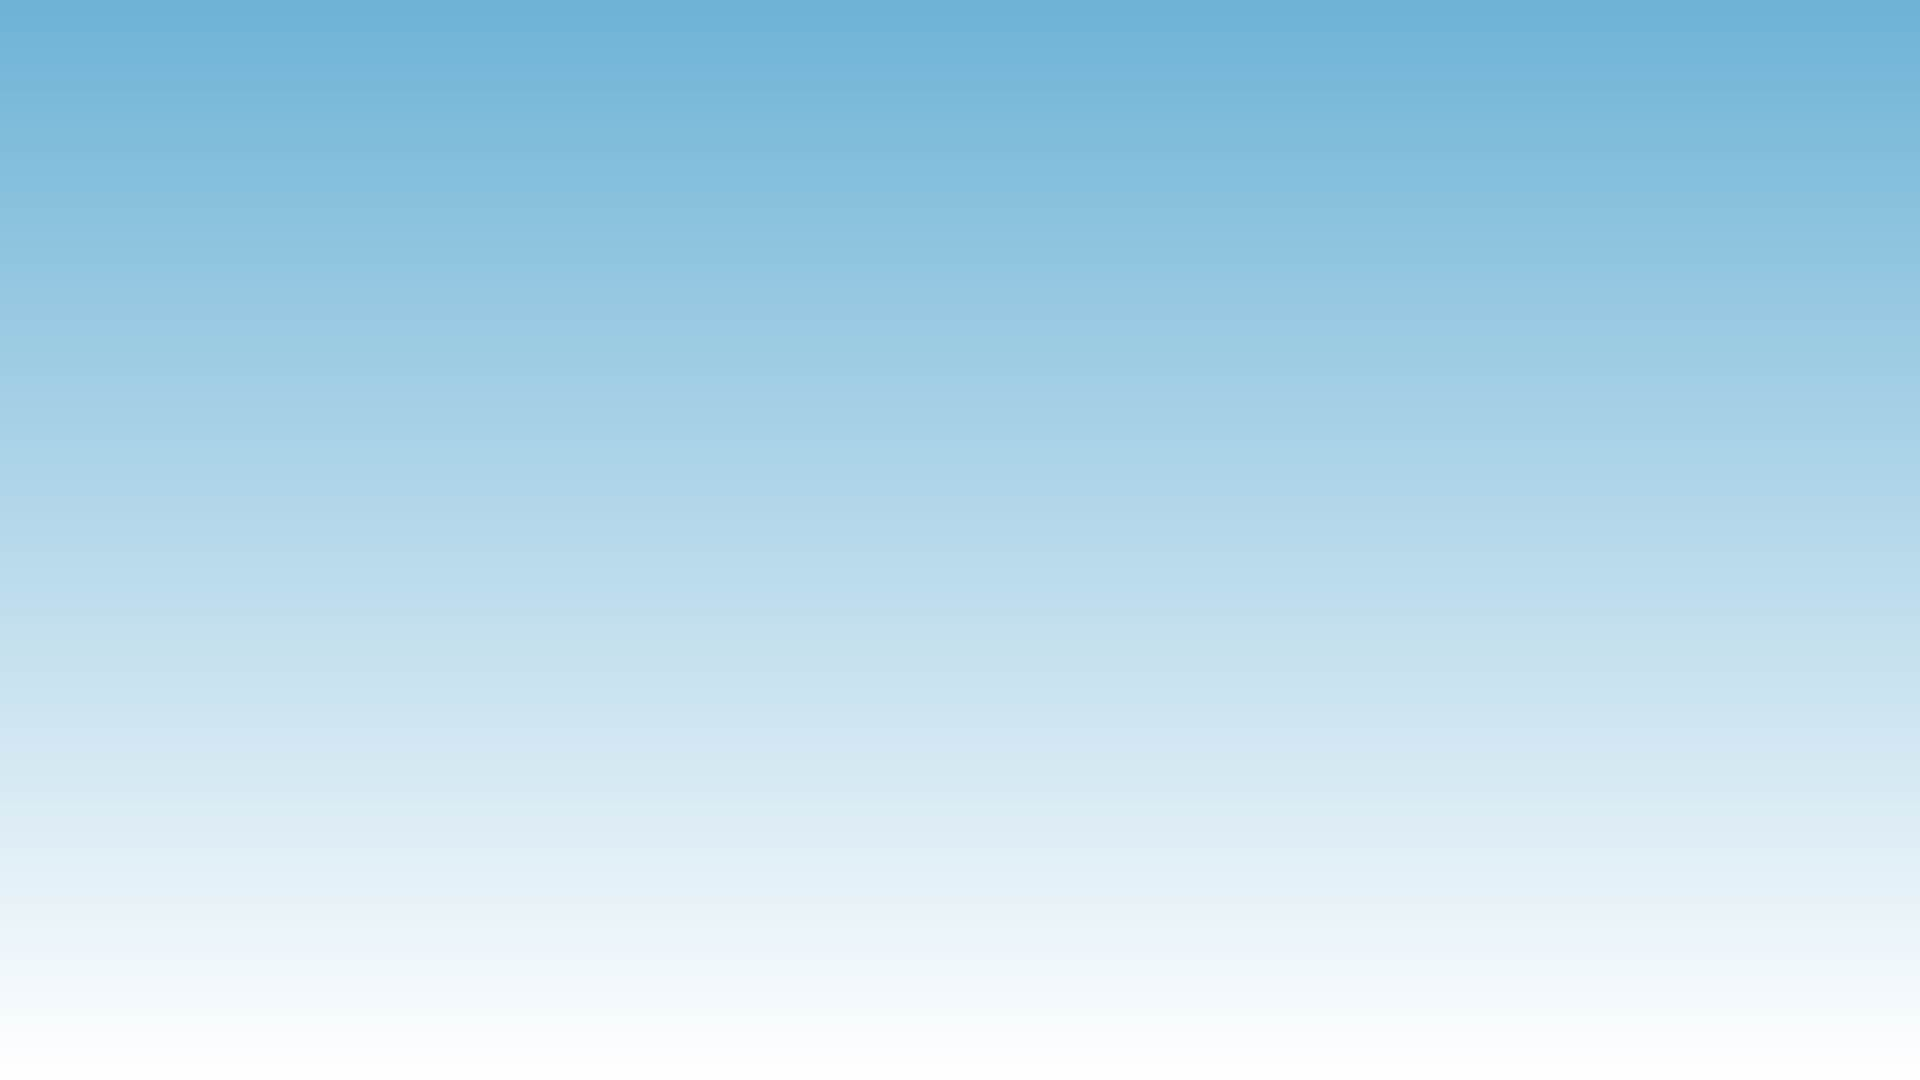
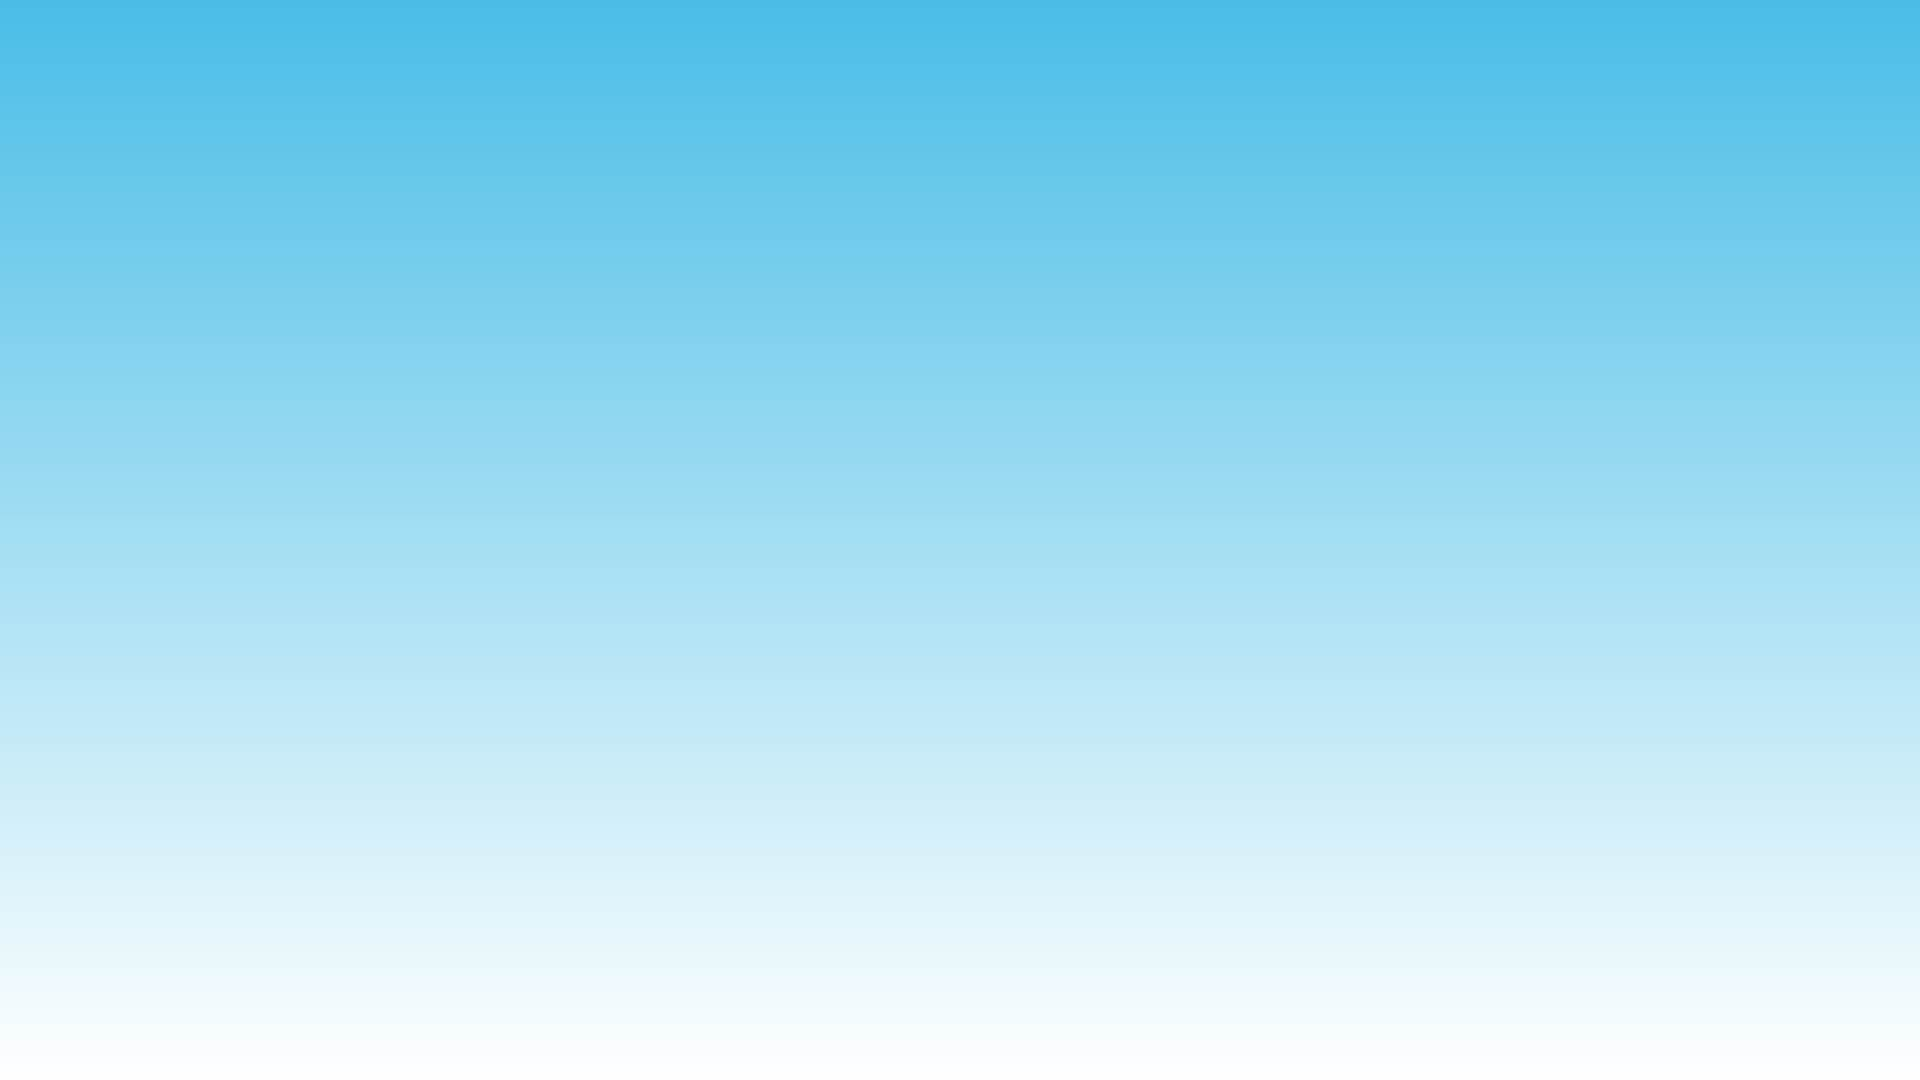
general fix

diff --git a/index.html b/index.html
@@ -4,7 +4,7 @@
     <!-- <meta name="viewport" content="width=device-width, initial-scale=1.0"> -->
     <meta name="viewport" content="width=device-width, initial-scale=1" />
     <title>Document</title>
-    <link href="https://fonts.googleapis.com/css2?family=Comfortaa:wght@300;400;500;600&family=Roboto+Slab:wght@400;500;600;700&display=swap" rel="stylesheet">
+    <link href="https://fonts.googleapis.com/css2?family=Cormorant+Garamond:wght@500&family=Cardo&family=Cinzel&family=Lato:wght@400;900&family=Comfortaa:wght@300;400;500;600&family=Chelsea+Market&family=Cormorant+Garamond:wght@500&family=Montserrat:wght@500;600&family=Roboto+Mono:wght@300;400;500&family=Roboto+Slab&family=Taviraj:wght@400;500&display=swap" rel="stylesheet">
     <script src = "js/p5.min.js"></script>
     <script src="js/p5.dom.min.js"></script>
     <script src = "js/introSketch.js"></script>
@@ -15,11 +15,14 @@
 </head>
 <body>
 <div id="title">
+    <!-- <div>
+        Snow Crystals
+    </div> -->
     <h1>
         Snow Crystals
     </h1>
     <span id="subtitle">
-        Draw a snow crystal 
+        Click and drag to draw a snow crystal 
         
     </span>
 </div>
@@ -27,12 +30,13 @@
 
 <div id="intro">
     <span>
-        Ever wondered how each grains of snowflakes are made? <br><br>
-        Project Snow Crystals is an infographics project on the natural system behind the formation of snow crystals. 
-        <br>Based on the temperature and humidity of the environment, largely 9 type of snow crystals are formed.
-        <br><br>Go to the next page to see how each types of snow crystals are formed in nature.
+        <span id ="q">Ever wondered how each grain of snow crystals are made?</span> <br><br>
+        <span id="i">Project Snow Crystals is an infographics project on the natural system behind the formation of snow crystals. 
+            <br>Based on the temperature and humidity of the environment, 9 type of snow crystals are formed.</span>
         <br><br>
-        <input type="button" class="button" value="Next Page" onclick="location.href='main.html'">
+        <span id="n">Go to the next page to see how each types of snow crystals are formed in nature.</span>
+        <br><br>
+        <input type="button" class="button" id="button" value="Next Page" onclick="location.href='main.html'">
 
     </span>
 </div>    

diff --git a/css/intro.css b/css/intro.css
@@ -1,10 +1,16 @@
 body{
-    /* align-content: center; */
-    font-family: 'Comfortaa', cursive;  
-    /* font-family: 'Roboto Slab', serif; */
-    /* font-weight:500; */
+      /* font-family: 'Roboto Mono', monospace; */
+  /* font-family: 'Montserrat', sans-serif; */
+  /* font-family: 'Cormorant Garamond', serif; */
+  /* font-family: 'Chelsea Market', cursive; */
+  /* font-family: 'Taviraj', serif; */
+  /* font-family: 'Cardo', serif; */
+  /* font-family: 'Cormorant Garamond', serif; */
+  font-family: 'Cinzel', serif;
+  /* font-family: 'Roboto Slab', serif; */
+  /* font-family: 'Comfortaa', cursive;   */
     color: white;
-    background-color: rgb(59, 126, 172);
+    background-color:rgb(63, 179, 221);
     width:95vw;
     height:95vh;
     margin:0px;
@@ -15,7 +21,7 @@ body{
     position: absolute;
     text-align: center;
     top:40vh;
-    left:38vw;
+    left:34vw;
     font-size: 1.5vw ;
 }
 
@@ -47,38 +53,20 @@ body{
       opacity:1;
   }
  @media only screen and (max-width: 800px){
-    html, body {
-        margin: 0;
-        padding: 25px 2px;
+    #title{
+    display: block;
+    border:1px;
+    position: absolute;
+    text-align: center;
+    top:40vh;
+    left:17.5vw;
+    font-size: 4vw ;
+    width:65vw;
     }
-    .header {
-        padding: 0px 30px;
-    }
-    .header h1{
-        font-size:40px;
-    }
-    .header h2 {
-        font-size: 18;
-    }
-    #number {
-        font-size: 40px;
-    }
-    .container{
-        margin-top: 80px;
-    }
-    .button{
-        font-size: 15px;
-        border-radius: 5px;
-        }
-    .column.center{
-        margin-top: 10px;
-    }
-    .footer h2{
-        font-size: 14px;
-        padding: 50px 10px 0px 0px;
-    }
-    #myVideo {
-        width: 95%;
-        border-radius: 10px;
+    #intro{
+        width:30vw;
+        right:30vw;
+        font-size: 1.5vw;
+        line-height: 2vw;
     }
 }

diff --git a/css/styles.css b/css/styles.css
@@ -1,13 +1,23 @@
 body {
-  /* font-family: 'Lato', sans-serif; */
-  font-family: 'Comfortaa', cursive;  
+  /* font-family: 'Roboto Mono', monospace; */
+  /* font-family: 'Montserrat', sans-serif; */
+  /* font-family: 'Cormorant Garamond', serif; */
+  /* font-family: 'Chelsea Market', cursive; */
+  /* font-family: 'Taviraj', serif; */
+  /* font-family: 'Cardo', serif; */
+  /* font-family: 'Cormorant Garamond', serif; */
+  font-family: 'Cinzel', serif;
+  /* font-family: 'Roboto Slab', serif; */
+  /* font-family: 'Comfortaa', cursive;   */
   color: white;
   /* width: 60vw;
   height: 60vh; */
   margin-top: 17vh;
   margin-left: 28vw; 
   /* background-color:rgb(58, 112, 148); */
-  background-color:rgb(59, 126, 172);
+  /* background-color:rgb(59, 126, 172); */
+  background-color:rgb(63, 179, 221);
+
 }
 #main{
   position: absolute;
@@ -96,11 +106,14 @@ body {
     height: 1vh; 
     margin-top:0.781vh;
     margin-bottom:1vh;
-    background: #d3d3d3;
+    /* background: #d3d3d3; */
+    background: #ffffff;
+    border-radius: 1vw;
     outline: none; 
-    opacity: 0.7; 
+    opacity: 0.8; 
     -webkit-transition: .2s; /* 0.2 seconds transition on hover */
     transition: opacity .2s;
+
   }
   
   /* Mouse-over effects */
@@ -111,9 +124,13 @@ body {
 .slider::-webkit-slider-thumb {
     -webkit-appearance: none; 
     appearance: none;
-    width: 20px; 
-    height: 20px; 
-    background:#a0e0ff;
+    width: 22px; 
+    height: 22px; 
+    /* background:#9bdeff; */
+    background:rgb(103, 229, 255);
+    border-radius: 1vw;
+    /* background:#a0e0ff; */
+
     /* background: rgb(18, 146, 163);  */
     cursor: pointer; 
   }
@@ -174,9 +191,13 @@ a{
   #main{
     width:62vw;
     left:1.5vw;
+    margin-left: auto;
+    margin-right: auto;
   }
   #pageTitle {
+    
     position: absolute;
+    
     top:5vh;
     left:2vw;
     font-size:7vw;

diff --git a/main.html b/main.html
@@ -4,7 +4,7 @@
     <meta name="viewport" content="width=device-width, initial-scale=1.0">
     <title>Snow Crystals</title>
     <!-- font import -->
-    <link href="https://fonts.googleapis.com/css2?family=Lato:wght@400;900&family=Comfortaa:wght@300;400;500;600&display=swap" rel="stylesheet">
+    <link href="https://fonts.googleapis.com/css2?family=Cormorant+Garamond:wght@500&family=Cardo&family=Cinzel&family=Lato:wght@400;900&family=Comfortaa:wght@300;400;500;600&family=Chelsea+Market&family=Cormorant+Garamond:wght@500&family=Montserrat:wght@500;600&family=Roboto+Mono:wght@300;400;500&family=Roboto+Slab&family=Taviraj:wght@400;500&display=swap" rel="stylesheet">
  
     <!-- scripts -->
     <link rel = "stylesheet" href="css/styles.css">

diff --git a/js/introSketch.js b/js/introSketch.js
@@ -16,7 +16,8 @@ function setup() {
   createCanvas(windowWidth*0.98,windowHeight*0.98);
 
   angleMode(DEGREES);
-  background(59, 126, 172);
+  background(63, 179, 221);
+
   // saveButton = createButton("save");
   // saveButton.mousePressed(saveSnowFlake);
   // clearButton = createButton("clear");
